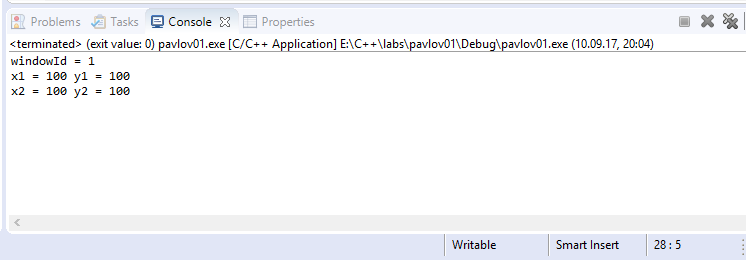
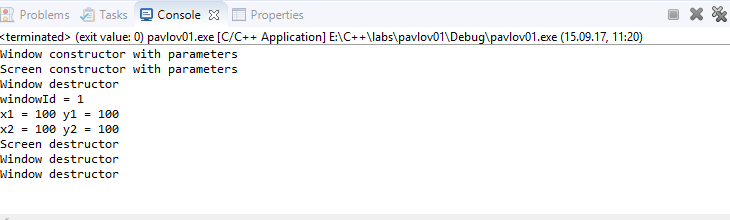
#4, #5 pavlov01: добавлены логи конструкторов, в соответствии с этим изменён рис 3.1 в отчете

Changed region(s): [[0.0, 0.0, 1.0, 0.9818]]

diff --git a/pavlov-viacheslav/src/pavlov01/Screen.cpp b/pavlov-viacheslav/src/pavlov01/Screen.cpp
@@ -16,14 +16,17 @@ using namespace std;
 Screen::Screen() {
 	// TODO Auto-generated constructor stub
 
+	cout << "Screen default constructor\n";
 }
 
 Screen::~Screen() {
 	// TODO Auto-generated destructor stub
+
+	cout << "Screen destructor\n";
 }
 
-Screen::Screen(Window window) {
-	this->window = window;
+Screen::Screen(Window window): window(window) {
+	cout << "Screen constructor with parameters\n";
 }
 
 void Screen::viewWindow() {

diff --git a/pavlov-viacheslav/src/pavlov01/Window.cpp b/pavlov-viacheslav/src/pavlov01/Window.cpp
@@ -23,6 +23,8 @@ Window::Window() {
 
 Window::~Window() {
 	// TODO Auto-generated destructor stub
+
+	cout << "Window destructor\n";
 }
 
 Window::Window(int _windowId, int _x1, int _y1, int _x2, int _y2) :
